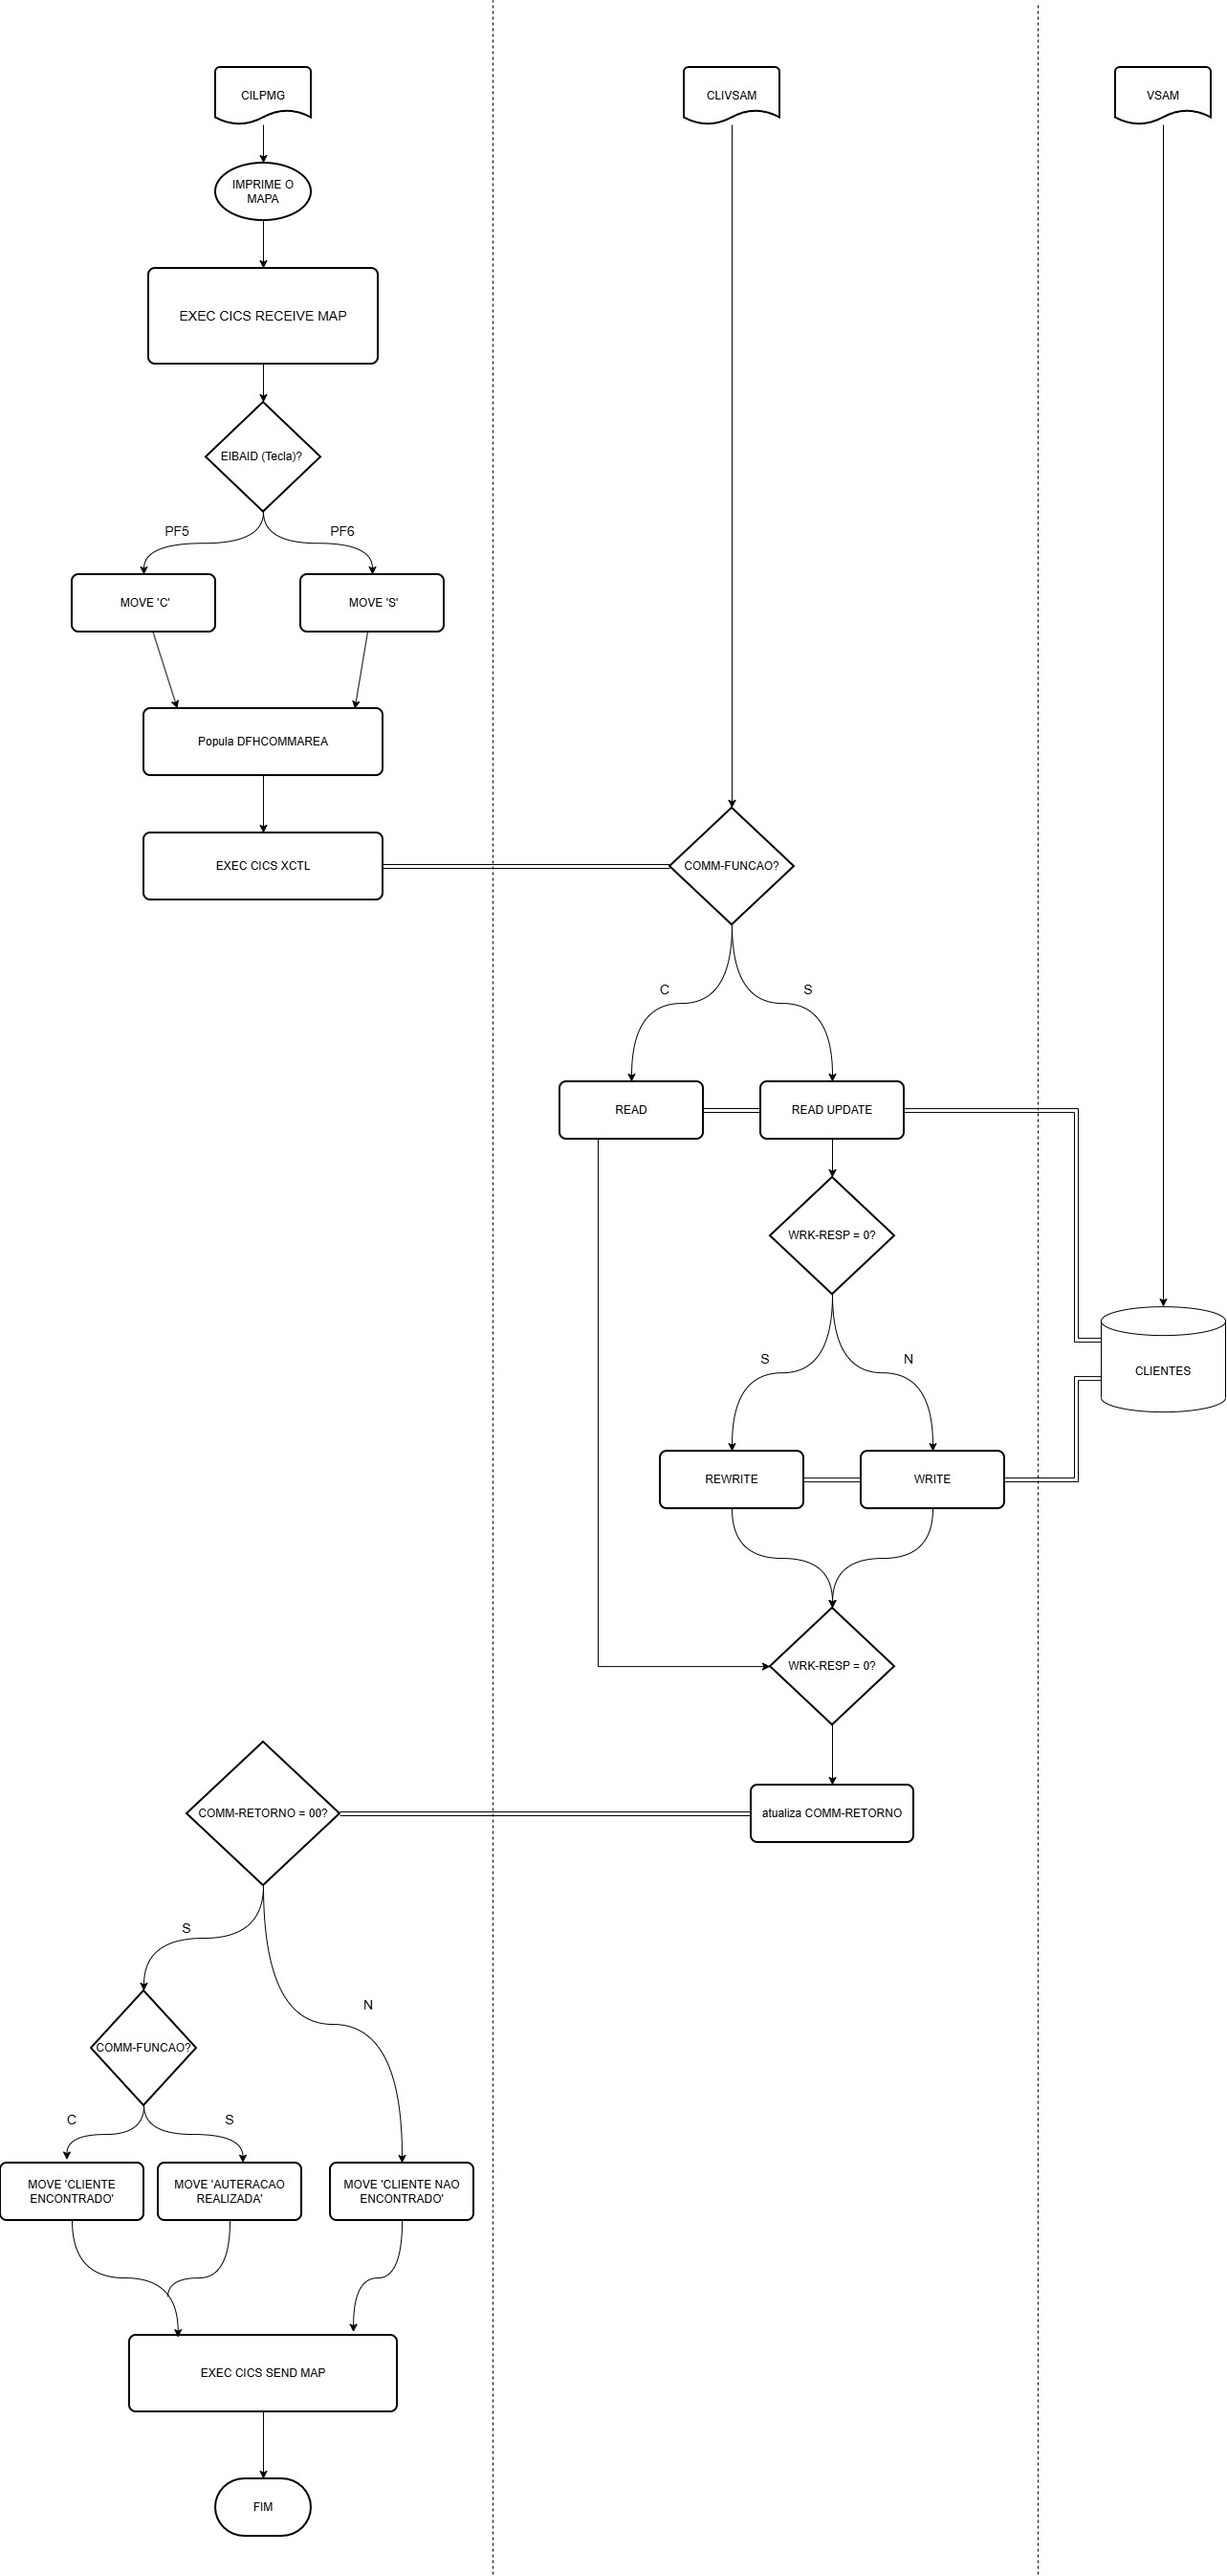
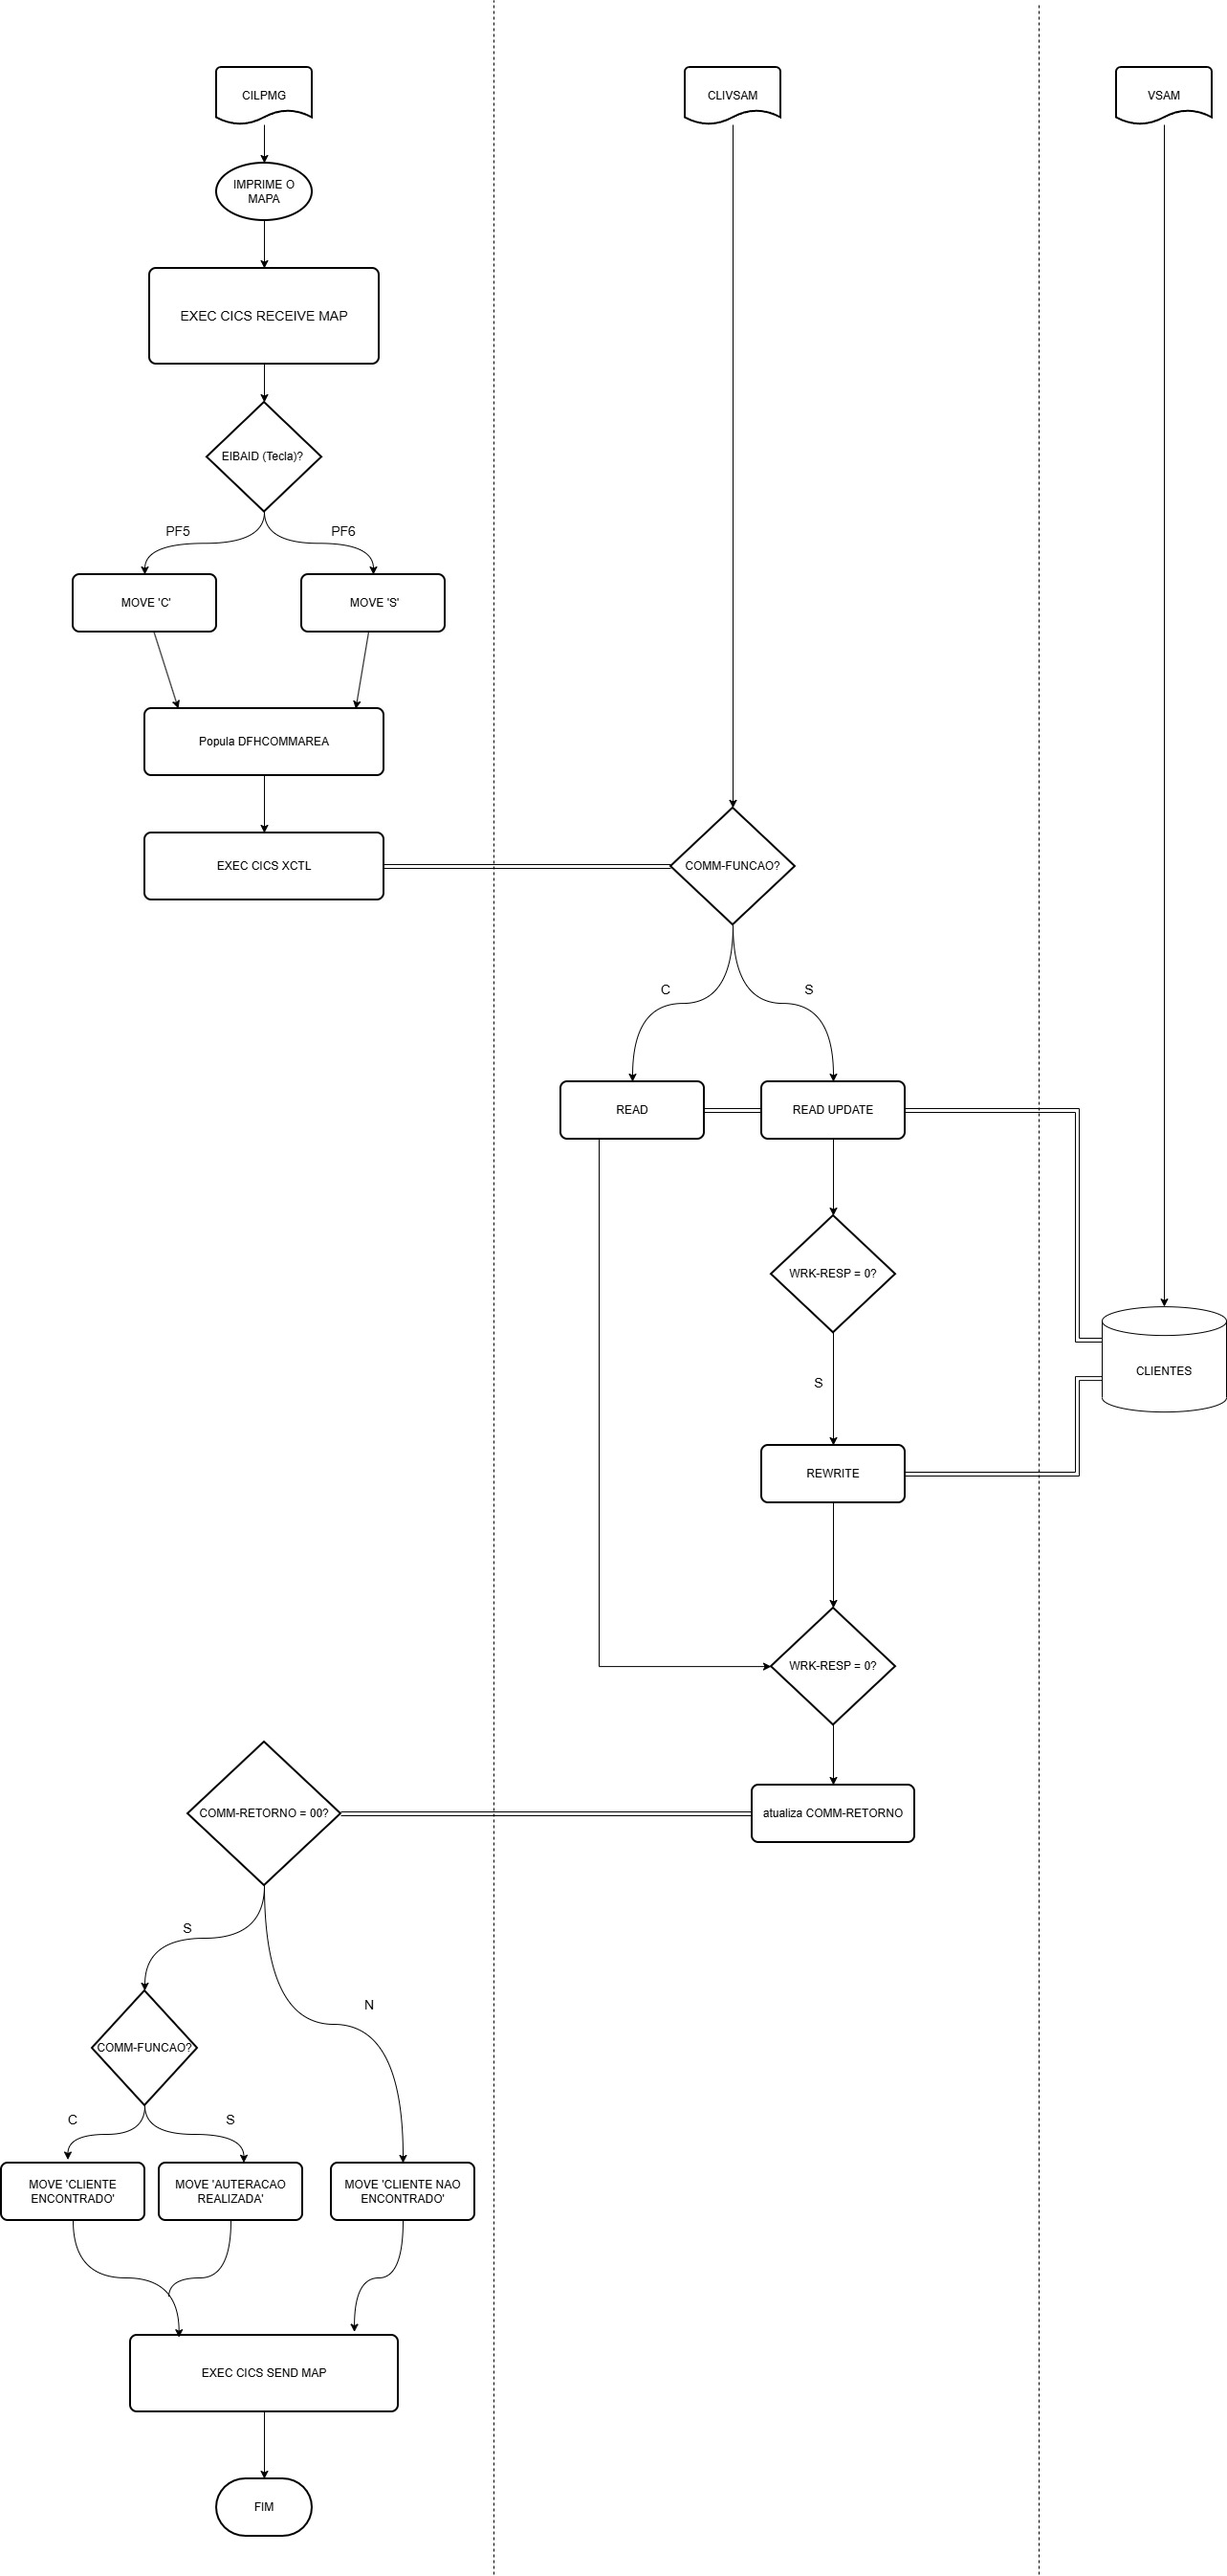
Alterei o fluxograma deixando mais coerente com a entrega final

diff --git a/Projeto-semana-8-Sistema-de-Contas-Bancarias/README.md b/Projeto-semana-8-Sistema-de-Contas-Bancarias/README.md
@@ -25,7 +25,7 @@ Crie os datasets(simulando mainframe):
 - Foi feito apenas uma simulação do JCL, este projeto foi compilado por GnuCOBOL.
 
 ## Observações 
-- Deixei os arquivos usados como exemplo na pasta `ARQUIVOS(CONTAS)` e as prints da execução no TSO na pasta `Execução do programa`.
+- Deixei os arquivos usados como exemplo na pasta `ARQUIVOS(CONTAS)` e as prints da execução na pasta `Execução do programa`.
 - Não consegui configurar a IDE para deixar o sistema mais modulado com submodulos recebendo os dados pela LINKAGE SECTION, não descobri o motivo e deixei em uma ssó arquivo que funcionou, mas o código está todo comentado e organizado para facilitar a leitura e entendimento do programa. 
 - Algumas limitações não consegui resolver, como usar o COPY do DBCLI e DBTRAN e usar o Cursor (tive que simular fazendo manualmente)                                                                                 
 
